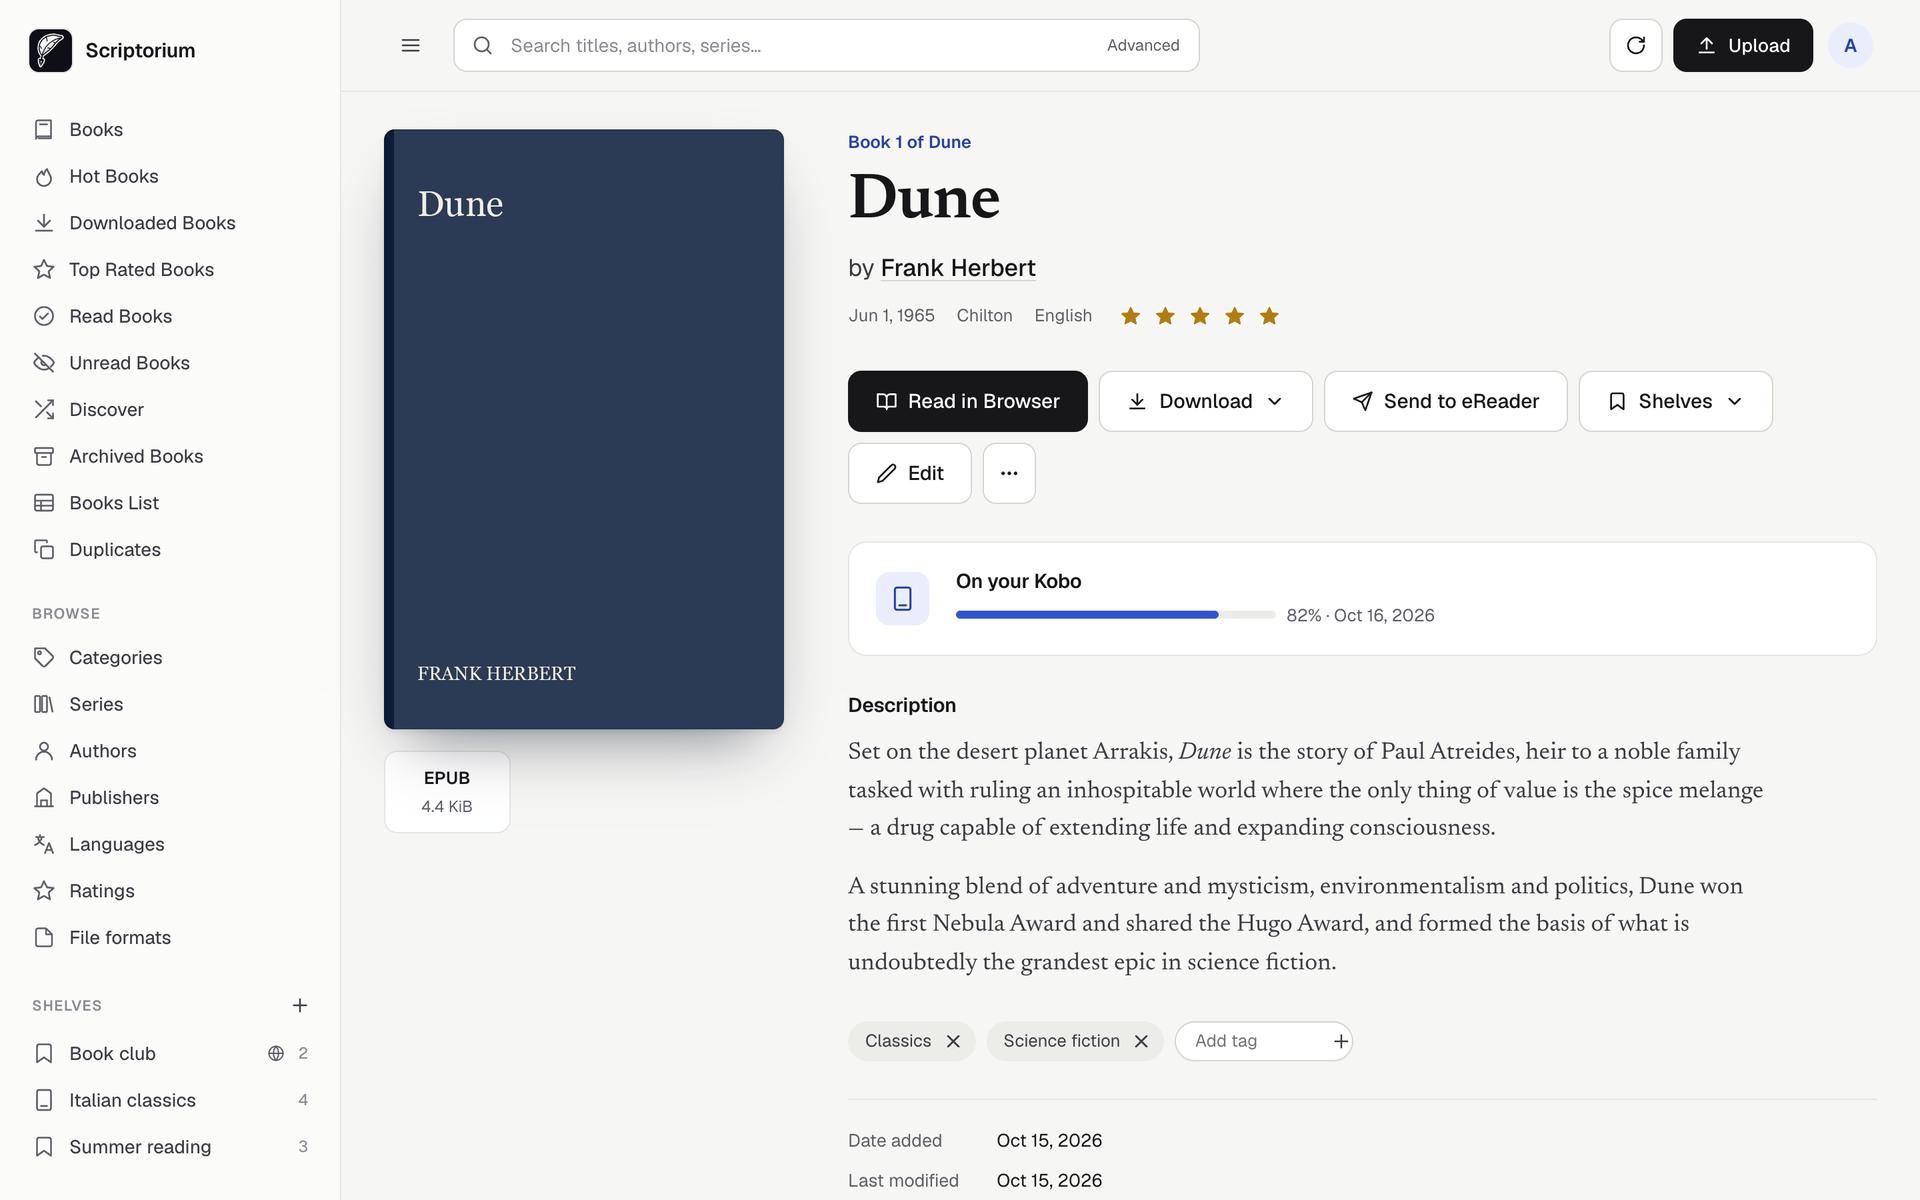
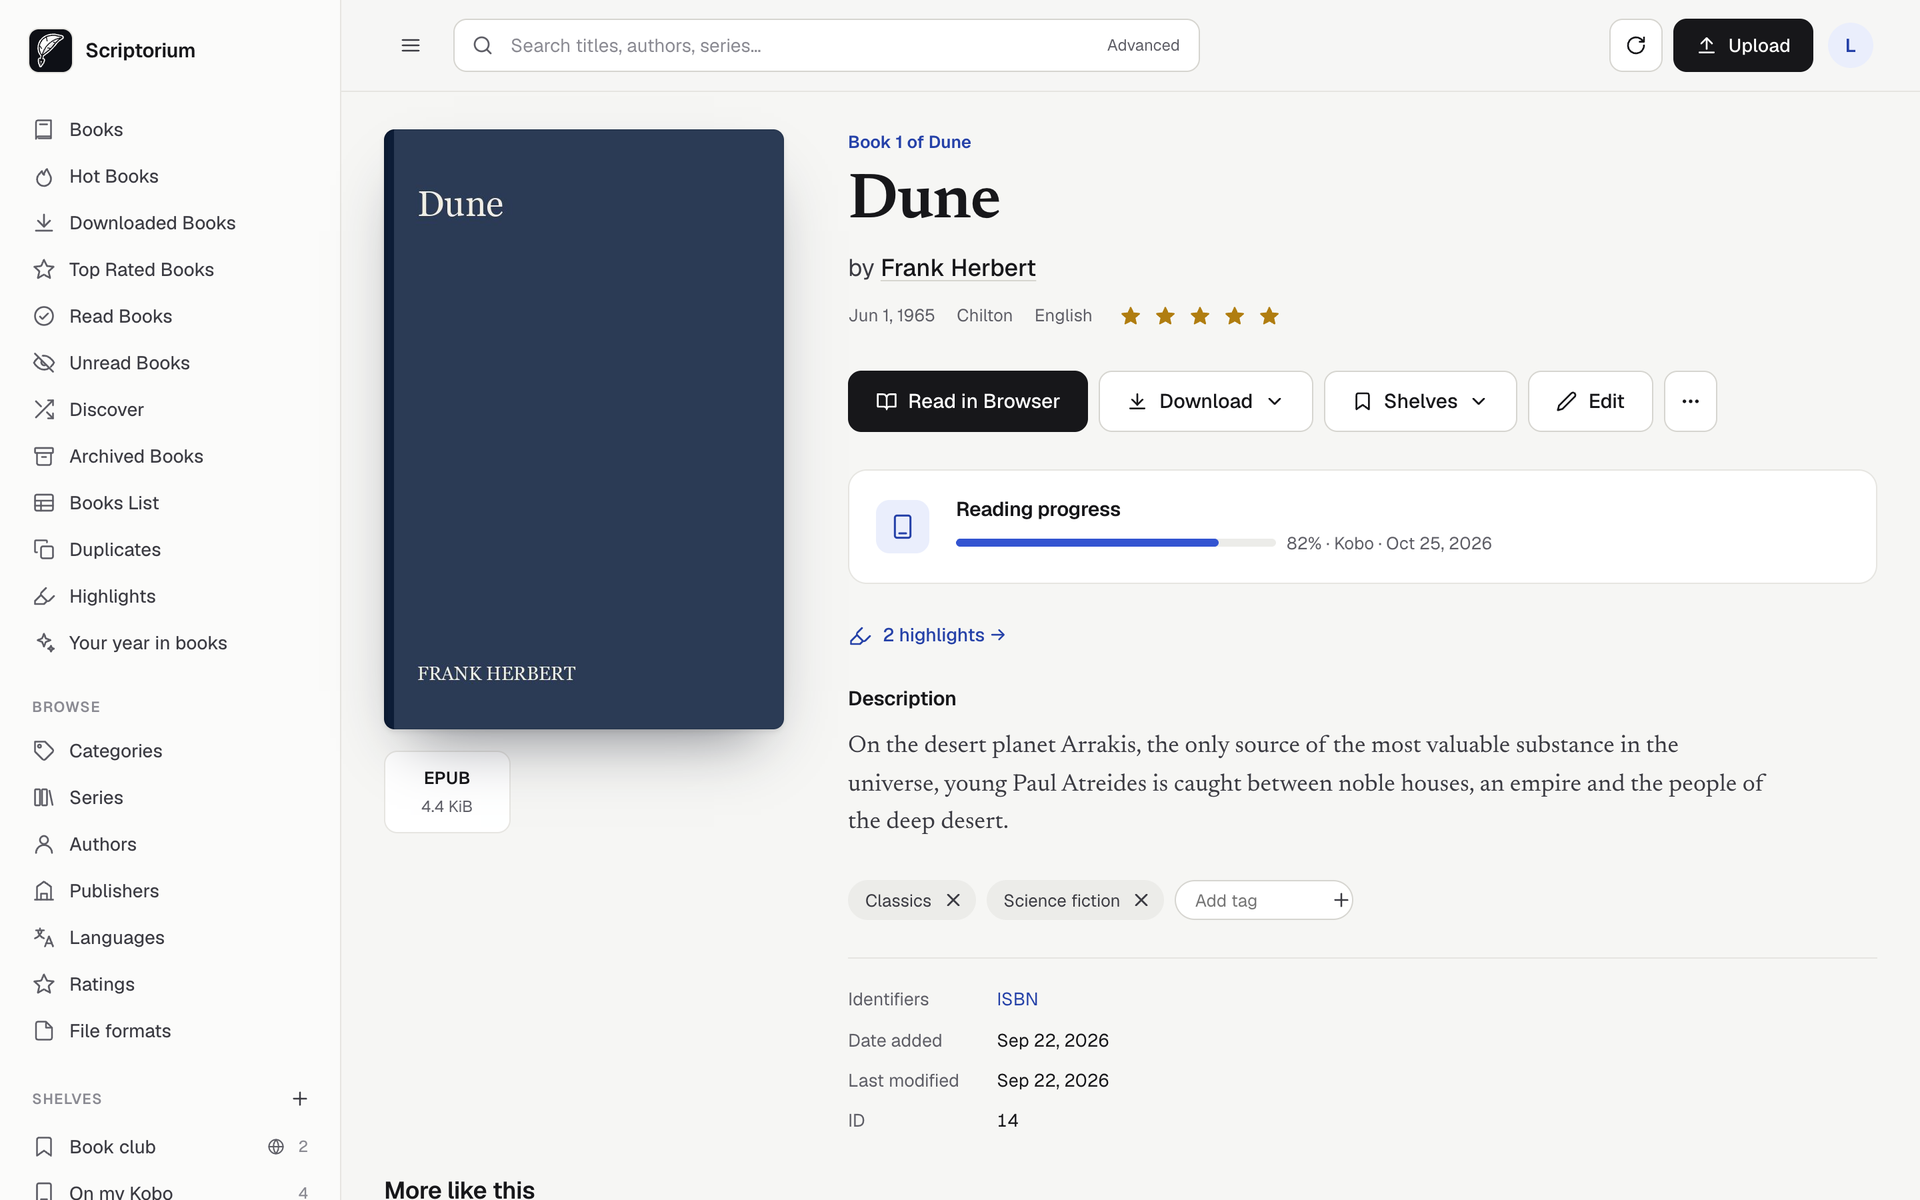
Screenshots and sample library in English
The development library now uses the English editions of its books, with
English genres and descriptions, so screenshots show no Italian. The
markup-escaping checks live only on the dedicated test book instead of
Dune's description.

Every README screenshot is retaken with this library and a reader named
Lucas: home, book page, Kobo setup, Customize, the Sunset style, highlights,
the phone screens, the hero image and the year-in-books story.

diff --git a/scripts/seed_dev_library.py b/scripts/seed_dev_library.py
@@ -27,34 +27,40 @@ REPO = os.path.dirname(os.path.dirname(os.path.abspath(__file__)))
 
 BOOKS = [
     # title, author, series, index, tags, publisher, year, rating(0-10), lang, description
-    ("Il nome della rosa", "Umberto Eco", None, 0, ["Giallo storico", "Medioevo"], "Bompiani", 1980, 8, "ita",
-     "<p>Un monaco francescano indaga su una serie di morti in un'abbazia benedettina.</p>"),
-    ("Il pendolo di Foucault", "Umberto Eco", None, 0, ["Romanzo"], "Bompiani", 1988, 6, "ita", ""),
-    ("Le città invisibili", "Italo Calvino", None, 0, ["Narrativa italiana"], "Einaudi", 1972, 10, "ita",
-     "<p>Marco Polo descrive a Kublai Khan le città del suo impero.</p>"),
-    ("Il barone rampante", "Italo Calvino", "I nostri antenati", 2, ["Narrativa italiana"], "Einaudi", 1957, 8, "ita", ""),
-    ("Il visconte dimezzato", "Italo Calvino", "I nostri antenati", 1, ["Narrativa italiana"], "Einaudi", 1952, 8, "ita", ""),
-    ("Il cavaliere inesistente", "Italo Calvino", "I nostri antenati", 3, ["Narrativa italiana"], "Einaudi", 1959, 6, "ita", ""),
-    ("Lessico famigliare", "Natalia Ginzburg", None, 0, ["Memoir"], "Einaudi", 1963, 8, "ita", ""),
-    ("La coscienza di Zeno", "Italo Svevo", None, 0, ["Classici"], "Cappelli", 1923, 6, "ita", ""),
-    ("Il sistema periodico", "Primo Levi", None, 0, ["Racconti"], "Einaudi", 1975, 10, "ita", ""),
-    ("Il Gattopardo", "Giuseppe Tomasi di Lampedusa", None, 0, ["Classici"], "Feltrinelli", 1958, 8, "ita", ""),
-    ("L'amica geniale", "Elena Ferrante", "L'amica geniale", 1, ["Narrativa italiana"], "E/O", 2011, 8, "ita", ""),
-    ("Storia del nuovo cognome", "Elena Ferrante", "L'amica geniale", 2, ["Narrativa italiana"], "E/O", 2012, 8, "ita", ""),
-    ("Dune", "Frank Herbert", "Dune", 1, ["Fantascienza"], "Chilton", 1965, 10, "eng",
-     "<p>Paul Atreides and the desert planet Arrakis.</p><script>alert('xss')</script>"),
-    ("Dune Messiah", "Frank Herbert", "Dune", 2, ["Fantascienza"], "Putnam", 1969, 6, "eng", ""),
-    ("The Left Hand of Darkness", "Ursula K. Le Guin", "Hainish Cycle", 4, ["Fantascienza"], "Ace", 1969, 10, "eng", ""),
-    ("The Dispossessed", "Ursula K. Le Guin", "Hainish Cycle", 5, ["Fantascienza"], "Harper & Row", 1974, 8, "eng", ""),
-    ("Neuromancer", "William Gibson", "Sprawl", 1, ["Fantascienza", "Cyberpunk"], "Ace", 1984, 8, "eng", ""),
-    ("Solaris", "Stanisław Lem", None, 0, ["Fantascienza"], "MON", 1961, 8, "eng", ""),
-    ("Project Hail Mary", "Andy Weir", None, 0, ["Fantascienza"], "Ballantine", 2021, 8, "eng", ""),
+    ("The Name of the Rose", "Umberto Eco", None, 0, ["Historical mystery", "Middle Ages"], "Harcourt", 1983, 8, "eng",
+     "<p>In 1327 a Franciscan friar and his young novice investigate a string of deaths in a wealthy Benedictine "
+     "abbey, where the library is a labyrinth and some books are not meant to be read.</p>"),
+    ("Foucault's Pendulum", "Umberto Eco", None, 0, ["Literary fiction"], "Harcourt", 1989, 6, "eng", ""),
+    ("Invisible Cities", "Italo Calvino", None, 0, ["Literary fiction"], "Harcourt", 1974, 10, "eng",
+     "<p>Marco Polo describes to Kublai Khan the cities of his empire, each one stranger than the last.</p>"),
+    ("The Baron in the Trees", "Italo Calvino", "Our Ancestors", 2, ["Literary fiction"], "Harcourt", 1959, 8, "eng", ""),
+    ("The Cloven Viscount", "Italo Calvino", "Our Ancestors", 1, ["Literary fiction"], "Harcourt", 1962, 8, "eng", ""),
+    ("The Nonexistent Knight", "Italo Calvino", "Our Ancestors", 3, ["Literary fiction"], "Harcourt", 1962, 6, "eng", ""),
+    ("Family Lexicon", "Natalia Ginzburg", None, 0, ["Memoir"], "NYRB Classics", 2017, 8, "eng", ""),
+    ("Zeno's Conscience", "Italo Svevo", None, 0, ["Classics"], "Vintage", 2003, 6, "eng", ""),
+    ("The Periodic Table", "Primo Levi", None, 0, ["Short stories"], "Schocken", 1984, 10, "eng", ""),
+    ("The Leopard", "Giuseppe Tomasi di Lampedusa", None, 0, ["Classics"], "Pantheon", 1960, 8, "eng",
+     "<p>Sicily, 1860. As Garibaldi's troops land, an ageing prince watches his world end with irony and grace.</p>"),
+    ("My Brilliant Friend", "Elena Ferrante", "Neapolitan Novels", 1, ["Literary fiction"], "Europa Editions", 2012, 8, "eng", ""),
+    ("The Story of a New Name", "Elena Ferrante", "Neapolitan Novels", 2, ["Literary fiction"], "Europa Editions", 2013, 8, "eng", ""),
+    ("Dune", "Frank Herbert", "Dune", 1, ["Science fiction", "Classics"], "Chilton", 1965, 10, "eng",
+     "<p>On the desert planet Arrakis, the only source of the most valuable substance in the universe, young "
+     "Paul Atreides is caught between noble houses, an empire and the people of the deep desert.</p>"),
+    ("Dune Messiah", "Frank Herbert", "Dune", 2, ["Science fiction"], "Putnam", 1969, 6, "eng", ""),
+    ("The Left Hand of Darkness", "Ursula K. Le Guin", "Hainish Cycle", 4, ["Science fiction"], "Ace", 1969, 10, "eng", ""),
+    ("The Dispossessed", "Ursula K. Le Guin", "Hainish Cycle", 5, ["Science fiction"], "Harper & Row", 1974, 8, "eng", ""),
+    ("Neuromancer", "William Gibson", "Sprawl", 1, ["Science fiction", "Cyberpunk"], "Ace", 1984, 8, "eng", ""),
+    ("Solaris", "Stanisław Lem", None, 0, ["Science fiction"], "Walker", 1970, 8, "eng", ""),
+    ("Project Hail Mary", "Andy Weir", None, 0, ["Science fiction"], "Ballantine", 2021, 8, "eng",
+     "<p>A schoolteacher wakes up alone on a spaceship with no memory of how he got there, and the fate of "
+     "Earth depending on him.</p>"),
     ("Klara and the Sun", "Kazuo Ishiguro", None, 0, ["Literary fiction"], "Faber", 2021, 6, "eng", ""),
     ("The Remains of the Day", "Kazuo Ishiguro", None, 0, ["Literary fiction"], "Faber", 1989, 8, "eng", ""),
-    ("Sapiens", "Yuval Noah Harari", None, 0, ["Saggistica", "Storia"], "Harper", 2011, 6, "eng", ""),
-    ("Thinking, Fast and Slow", "Daniel Kahneman", None, 0, ["Saggistica", "Psicologia"], "FSG", 2011, 8, "eng", ""),
+    ("Sapiens", "Yuval Noah Harari", None, 0, ["Non-fiction", "History"], "Harper", 2011, 6, "eng", ""),
+    ("Thinking, Fast and Slow", "Daniel Kahneman", None, 0, ["Non-fiction", "Psychology"], "FSG", 2011, 8, "eng", ""),
+    # Escaping test: every field carries markup that must be shown as text, never run.
     ("<img src=x onerror=alert(1)>", "Test <b>Author</b>", None, 0, ["<script>x</script>"], "Evil & Co", 2020, 2, "eng",
-     "<p onclick=\"alert(1)\">Escaping test book.</p>"),
+     "<p onclick=\"alert(1)\">Escaping test book.</p><script>alert('xss')</script>"),
 ]
 
 PALETTE = [("#2B3A55", "#F3EEE2"), ("#B4552F", "#FFF6EC"), ("#3E7A57", "#F4F1E6"), ("#C9A227", "#2A220C"),
@@ -63,7 +69,7 @@ PALETTE = [("#2B3A55", "#F3EEE2"), ("#B4552F", "#FFF6EC"), ("#3E7A57", "#F4F1E6"
 
 
 def sort_key(text):
-    for article in ("The ", "A ", "An ", "Il ", "Lo ", "La ", "L'", "Le ", "I ", "Gli "):
+    for article in ("The ", "A ", "An "):
         if text.startswith(article):
             return text[len(article):] + ", " + article.strip()
     return text
